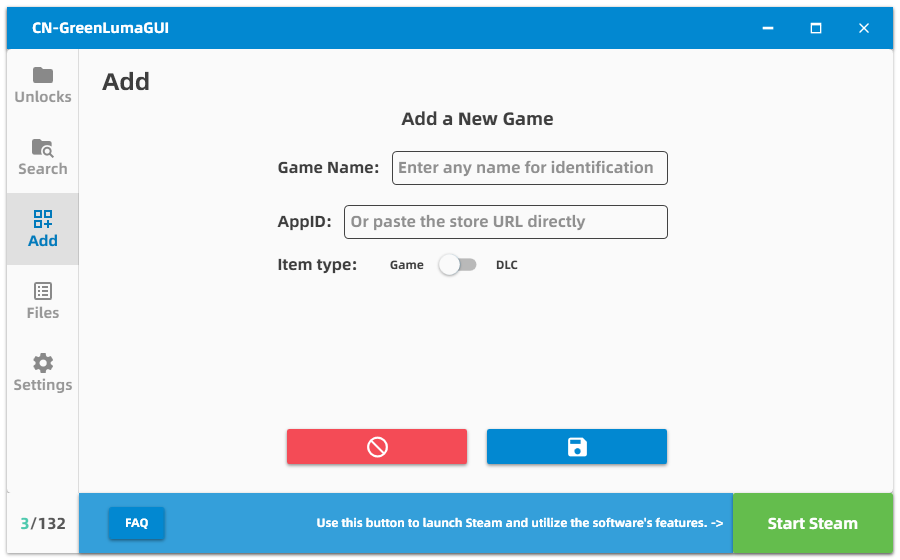
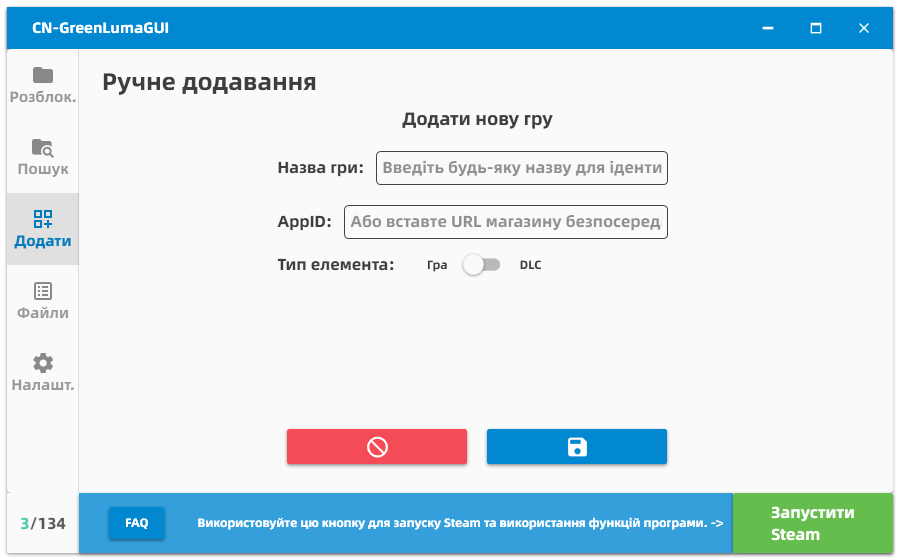
Publish v1.6.7

diff --git a/Languages/Strings.uk-UA.xaml b/Languages/Strings.uk-UA.xaml
@@ -3,7 +3,7 @@
                     xmlns:sys="clr-namespace:System;assembly=mscorlib">
     <sys:String x:Key="App_DisplayName">CN-GreenLumaGUI</sys:String>
     <sys:String x:Key="Settings_DownloadLatest">Завантажити останню версію</sys:String>
-    <sys:String x:Key="Settings_OpenSourceNote">Це ПЗ з відкритим кодом. Повідомляйте про баги на GitHub -&gt;</sys:String>
+    <sys:String x:Key="Settings_OpenSourceNote">Повідомляйте про баги на GitHub -&gt;</sys:String>
     <sys:String x:Key="Settings_SteamPathLabel">Шлях до Steam:</sys:String>
     <sys:String x:Key="Settings_SteamPathPlaceholder">Розташування файлу</sys:String>
     <sys:String x:Key="Settings_GameListSectionLabel">Дії зі списком ігор:</sys:String>
@@ -13,14 +13,14 @@
     <sys:String x:Key="Settings_ScrollBarLabel">Права смуга прокрутки:</sys:String>
     <sys:String x:Key="Common_Hidden">Приховати</sys:String>
     <sys:String x:Key="Common_Show">Показати</sys:String>
-    <sys:String x:Key="Settings_SteamSearchAccelerate">Прискорити пошук Steam:</sys:String>
+    <sys:String x:Key="Settings_SteamSearchAccelerate">Спробувати прискорити пошук Steam:</sys:String>
     <sys:String x:Key="Common_Off">Вимк</sys:String>
     <sys:String x:Key="Common_On">Увімк</sys:String>
-    <sys:String x:Key="Settings_SteamSearchNote">(Запити проксуються через сервер розробника; з'єднання не гарантується.)</sys:String>
+    <sys:String x:Key="Settings_SteamSearchNote">(Пошукові запити передаються через сервер розробника; з'єднання не гарантується.)</sys:String>
     <sys:String x:Key="Settings_CompatModeLabel">Завжди запускати в режимі сумісності:</sys:String>
     <sys:String x:Key="Common_No">Ні</sys:String>
     <sys:String x:Key="Common_Yes">Так</sys:String>
-    <sys:String x:Key="Settings_CompatNote">(Режим сумісності жертвує скритністю заради надійності та може виправити збої запуску на деяких ПК.)</sys:String>
+    <sys:String x:Key="Settings_CompatNote">(Режим сумісності жертвує непомітністю заради надійності та може виправити збої запуску на деяких ПК.)</sys:String>
     <sys:String x:Key="Settings_SkipSteamUpdate">Пропустити оновлення Steam</sys:String>
     <sys:String x:Key="Settings_SkipSteamUpdateNote">(Пропускати оновлення Steam при запуску через цей інструмент [з ін'єкцією або без].)</sys:String>
     <sys:String x:Key="Settings_ThemeLabel">Тема GUI:</sys:String>
@@ -35,8 +35,8 @@
     <sys:String x:Key="Settings_ConfigTxt">Формат TXT</sys:String>
     <sys:String x:Key="Settings_ConfigIni">Формат INI</sys:String>
     <sys:String x:Key="Settings_LanguageLabel">Мова інтерфейсу:</sys:String>
-    <sys:String x:Key="ConfigManifestFromApi">Отримувати інфо про Depot з приватного API:</sys:String>
-    <sys:String x:Key="Settings_ConfigManifestFromApiNoteLine1">(Дає більш точні імена депо при пошуку маніфестів)</sys:String>
+    <sys:String x:Key="ConfigManifestFromApi">Отримувати інформацію про Depot з приватного API:</sys:String>
+    <sys:String x:Key="Settings_ConfigManifestFromApiNoteLine1">(Дає більш точні назви депо при пошуку маніфестів)</sys:String>
     <sys:String x:Key="Settings_ConfigManifestFromApiNoteLine2">(Увімкнення може уповільнити перший пошук імен)</sys:String>
     <sys:String x:Key="ConfigEchoStartSteamNormalButton">Показати кнопку "N":</sys:String>
     <sys:String x:Key="Settings_ConfigEchoStartSteamNormalButtonNote">(Запуск Steam через цю кнопку запускає його звичайно, без розблокування ігор.)</sys:String>
@@ -70,13 +70,13 @@
     <sys:String x:Key="PageTitle_LocalManifest">Файли маніфестів</sys:String>
     <sys:String x:Key="PageTitle_Settings">Налаштування</sys:String>
     <sys:String x:Key="Bottom_NormalRestart">Звич. перезап.</sys:String>
-    <sys:String x:Key="Bottom_NormalRestart_ToolTip">Закрити Steam і перезапустити його нормально (без ін'єкції)</sys:String>
+    <sys:String x:Key="Bottom_NormalRestart_ToolTip">Закрити Steam і перезапустити його у звичайному режимі (без ін'єкції)</sys:String>
     <sys:String x:Key="Bottom_InjectRestart">Інжект Рестарт</sys:String>
     <sys:String x:Key="Bottom_InjectRestart_ToolTip">Закрити Steam, виконати ін'єкцію, а потім перезапустити</sys:String>
     <sys:String x:Key="Bottom_Start" xml:space="preserve">Запустити&#x0a;Steam</sys:String>
     <sys:String x:Key="Bottom_Close" xml:space="preserve">Закрити&#x0a;Steam</sys:String>
     <sys:String x:Key="Bottom_Loading">X</sys:String>
-    <sys:String x:Key="Bottom_FAQ">ЧаПи</sys:String>
+    <sys:String x:Key="Bottom_FAQ">FAQ</sys:String>
     <sys:String x:Key="Bottom_TutorialPrompt">Використовуйте цю кнопку для запуску Steam та використання функцій програми.    -&gt;</sys:String>
     <sys:String x:Key="Drop_FilePrompt">Файл перетягнуто у вікно, відпустіть для додавання</sys:String>
 
@@ -168,7 +168,7 @@
     <sys:String x:Key="Search_NextPage">Наступна сторінка</sys:String>
 
     <!-- ManagerViewModel_Dock -->
-    <sys:String x:Key="Window_Title_FAQ">ЧаПи</sys:String>
+    <sys:String x:Key="Window_Title_FAQ">FAQ</sys:String>
     <sys:String x:Key="Manager_NormalStartButton_Text">N</sys:String>
     <!-- Pure number 0~200 -->
     <sys:String x:Key="Window_DockWidth">140</sys:String>
@@ -183,22 +183,22 @@
     <sys:String x:Key="Dock_DownloadPrompt">Завантажити</sys:String>
     <sys:String x:Key="Dock_OpenVCRedistUrl">Відкрити сторінку завантаження Microsoft VC++ runtime?</sys:String>
     <sys:String x:Key="Dock_TryCompatMode">Виявлено проблему сумісності системи, спроба запуску в режимі сумісності.</sys:String>
-    <sys:String x:Key="Dock_TempFileLost">Тимчасові файли відсутні, можливо видалені Windows Security. Спробуйте встановити інший антивірус (наприклад, Huorong), який вимкне Windows Security, потім спробуйте запустити знову.</sys:String>
+    <sys:String x:Key="Dock_TempFileLost">Тимчасові файли відсутні, можливо видалені Захисником Windows. Спробуйте встановити інший антивірус (наприклад, Huorong), який вимкне Захисник Windows, потім спробуйте запустити знову.</sys:String>
     <sys:String x:Key="Dock_OpenHuorongUrl">None</sys:String>
     <sys:String x:Key="Dock_LaunchFailedFormat">Помилка запуску! Будь ласка, зв'яжіться з розробником. ({0})</sys:String>
     <sys:String x:Key="Dock_LaunchFailedBase">Помилка запуску! Будь ласка, зв'яжіться з розробником.</sys:String>
     <sys:String x:Key="Dock_CheckFAQ">Перевірте ЧаПи. Якщо не вирішено, надішліть issue на GitHub.</sys:String>
     <sys:String x:Key="Dock_InjectorBlockedByAV">Інжектор не запустився, можливо заблокований антивірусом?</sys:String>
-    <sys:String x:Key="Dock_InjectorCrashed">Інжектор впав, зв'яжіться з адміністратором</sys:String>
-    <sys:String x:Key="Dock_InjectorUnknownError">Інжектор впав: [Невідома помилка], зв'яжіться з адміністратором</sys:String>
-    <sys:String x:Key="Dock_InjectorStartFileFailed">Інжектор впав: [Помилка створення стартового файлу]</sys:String>
-    <sys:String x:Key="Dock_InjectorDllReadFailed">Інжектор впав: [Не вдалося прочитати DLL], можливо зайнятий?</sys:String>
-    <sys:String x:Key="Dock_InjectorSteamNotFound">Інжектор впав: [Не вдалося знайти Steam.exe]</sys:String>
-    <sys:String x:Key="Dock_InjectorConfigMissing">Інжектор впав: [Файл конфігурації відсутній]</sys:String>
-    <sys:String x:Key="Dock_InjectorEndFileFailed">Інжектор впав: [Помилка створення кінцевого файлу]</sys:String>
+    <sys:String x:Key="Dock_InjectorCrashed">Збій інжектора, зв'яжіться з адміністратором</sys:String>
+    <sys:String x:Key="Dock_InjectorUnknownError">Збій інжектора: [Невідома помилка], зв'яжіться з адміністратором</sys:String>
+    <sys:String x:Key="Dock_InjectorStartFileFailed">Збій інжектора: [Помилка створення стартового файлу]</sys:String>
+    <sys:String x:Key="Dock_InjectorDllReadFailed">Збій інжектора: [Не вдалося прочитати DLL], можливо файл зайнятий?</sys:String>
+    <sys:String x:Key="Dock_InjectorSteamNotFound">Збій інжектора: [Не вдалося знайти Steam.exe]</sys:String>
+    <sys:String x:Key="Dock_InjectorConfigMissing">Збій інжектора: [Файл конфігурації відсутній]</sys:String>
+    <sys:String x:Key="Dock_InjectorEndFileFailed">Збій інжектора: [Помилка створення кінцевого файлу]</sys:String>
 
     <!-- ManifestListPage - Messages -->
-    <sys:String x:Key="Msg_SteamPathNotSet">Шлях до Steam не встановлено правильно</sys:String>
+    <sys:String x:Key="Msg_SteamPathNotSet">Шлях до Steam вказано некоректно</sys:String>
     <sys:String x:Key="Msg_ImportFromDir">Імпортовано {0} файлів з каталогу</sys:String>
     <sys:String x:Key="Msg_ImportFromZip">Імпортовано {0} файлів з архіву</sys:String>
     <sys:String x:Key="Msg_ImportFailed">Помилка імпорту ({0})</sys:String>

diff --git a/Languages/Strings.ru-RU.xaml b/Languages/Strings.ru-RU.xaml
@@ -24,7 +24,7 @@
     <sys:String x:Key="Settings_SkipSteamUpdate">Пропустить обновление Steam</sys:String>
     <sys:String x:Key="Settings_SkipSteamUpdateNote">(Пропускать обновления Steam при запуске через этот инструмент [с инъекцией или без].)</sys:String>
     <sys:String x:Key="Settings_ThemeLabel">Тема интерфейса:</sys:String>
-    <sys:String x:Key="Common_Default">Стандартная</sys:String>
+    <sys:String x:Key="Common_Default">По умолчанию</sys:String>
     <sys:String x:Key="Settings_ThemeDark">Тёмная</sys:String>
     <sys:String x:Key="Settings_TutorialPromptLabel">Обучающие подсказки:</sys:String>
     <sys:String x:Key="Settings_TutorialHide">Спрятать</sys:String>
@@ -77,7 +77,7 @@
     <sys:String x:Key="Bottom_Close" xml:space="preserve">Закрыть&#x0a;Steam</sys:String>
     <sys:String x:Key="Bottom_Loading">X</sys:String>
     <sys:String x:Key="Bottom_FAQ">FAQ</sys:String>
-    <sys:String x:Key="Bottom_TutorialPrompt">Используйте эту кнопку, чтобы запустить Steam и воспользоваться функциями приложения.    -&gt;</sys:String>
+    <sys:String x:Key="Bottom_TutorialPrompt">Нажмите, чтобы запустить Steam и использовать функции приложения.    -&gt;</sys:String>
     <sys:String x:Key="Drop_FilePrompt">Файл перемещен на окно, отпустите что бы добавить</sys:String>
 
     <!-- GameListPage -->
@@ -184,7 +184,7 @@
     <sys:String x:Key="Dock_OpenVCRedistUrl">Открыть страницу загрузки Microsoft VC++ ?</sys:String>
     <sys:String x:Key="Dock_TryCompatMode">Обнаружена проблема совместимости системы, попытка запуска в режиме совместимости.</sys:String>
     <sys:String x:Key="Dock_TempFileLost">Временные файлы отсутствуют, возможно, они были удалены Защитником Windows. Попробуйте установить другой антивирус (например, Dr.Web), который отключит Защитника Windows, а затем попробуйте запустить программу снова.</sys:String>
-    <sys:String x:Key="Dock_OpenHuorongUrl"></sys:String>
+    <sys:String x:Key="Dock_OpenHuorongUrl">None</sys:String>
     <sys:String x:Key="Dock_LaunchFailedFormat">Запуск не удался! Обратитесь к разработчику. ({0})</sys:String>
     <sys:String x:Key="Dock_LaunchFailedBase">Запуск не удался! Обратитесь к разработчику.</sys:String>
     <sys:String x:Key="Dock_CheckFAQ">Обратитесь к FAQ за помощью. Если не поможет, откройте запрос на GitHub.</sys:String>

diff --git a/tools/DataSystem.cs b/tools/DataSystem.cs
@@ -267,11 +267,11 @@ namespace CN_GreenLumaGUI.tools
             }
             LastVersion = readConfig?.LastVersion ?? "null";
             StartSuccessTimes = readConfig?.StartSuccessTimes ?? 0;
-            string? readCode = readConfig?.LanguageCode;
-            if (string.IsNullOrWhiteSpace(readCode))
-                LanguageCode = LocalizationService.GetSystemLanguageCode();
-            else
-                LanguageCode = readCode;
+            // 優先保留 App.OnStartup 中從註冊表讀取的語言設置
+            if (string.IsNullOrWhiteSpace(languageCode))
+            {
+                LanguageCode = readConfig?.LanguageCode ?? string.Empty;
+            }
             SteamPath = readConfig?.SteamPath;
             DarkMode = readConfig?.DarkMode ?? false;
             HidePromptText = readConfig?.HidePromptText ?? false;

diff --git a/tools/LocalizationService.cs b/tools/LocalizationService.cs
@@ -14,7 +14,7 @@ namespace CN_GreenLumaGUI.tools
         private const string RegistryKeyPath = @"Software\CN_GreenLumaGUI";
         private const string RegistryValueName = "LanguageCode";
 
-        private static readonly Dictionary<string, Uri> LanguageDictionaryMap = new()
+        private static readonly Dictionary<string, Uri> LanguageDictionaryMap = new(StringComparer.OrdinalIgnoreCase)
         {
             { "en-US", new Uri("Languages/Strings.en-US.xaml", UriKind.Relative) },
             { "zh-CN", new Uri("Languages/Strings.zh-CN.xaml", UriKind.Relative) },

diff --git a/AssemblyInfo.cs b/AssemblyInfo.cs
@@ -11,4 +11,4 @@ using System.Windows;
 
 )]
 [assembly: System.Runtime.Versioning.SupportedOSPlatform("windows")]
-[assembly: AssemblyVersion("1.6.6.*")]
+[assembly: AssemblyVersion("1.6.7.*")]
